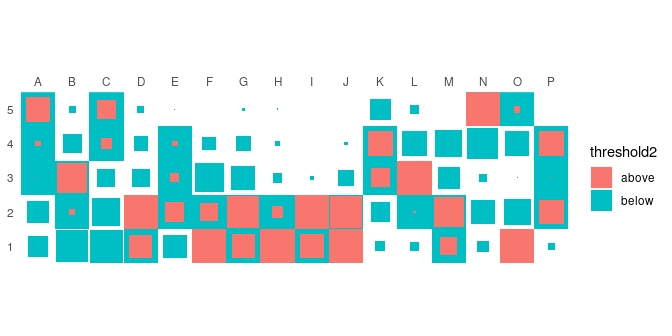
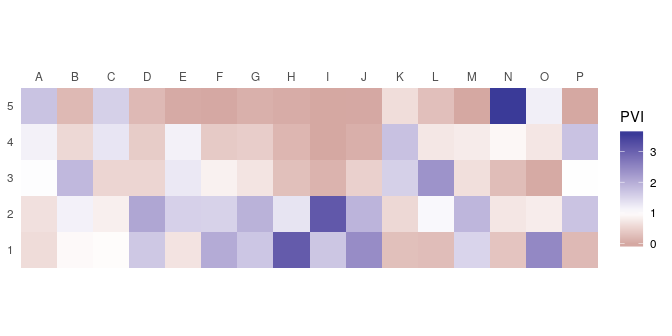
Update readme

diff --git a/README.md b/README.md
@@ -148,12 +148,12 @@ incidence <- IncidenceMatrix(data = sample(0:1, 400, TRUE, c(0.6, 0.4)),
                              nrow = 20)
 
 # Get seriation order on rows and columns
-# Reciprocal ranking method
-(indices <- seriate(incidence, method = "ranking", margin = c(1, 2)))
+# Correspondance analysis-based seriation
+(indices <- seriate(incidence, method = "correspondance", margin = c(1, 2)))
 #> Permutation order for matrix seriation: 
-#>    Row order: 2 3 1 8 20 16 13 4 18 7 9 17 5 6 12 11 10 15 19 14 
-#>    Column order: 2 7 5 11 19 17 4 16 6 10 8 9 3 20 12 14 13 1 18 15 
-#>    Method: ranking
+#>    Row order: 8 16 14 6 19 7 5 2 11 1 15 3 18 13 20 17 12 10 4 9 
+#>    Column order: 15 16 14 6 8 7 17 9 10 4 1 2 13 19 18 5 12 3 20 11 
+#>    Method: correspondance
 ```
 
 ``` r
@@ -190,7 +190,7 @@ plotSpot(count, threshold = mean)
 
 ![](man/figures/README-spot-1.png)
 
-Bertin of Ford diagramms can be plotted, with statistic threshold (B. Desachy's seriograph EPPM):
+Bertin of Ford (battleship curve) diagramms can be plotted, with statistic threshold (B. Desachy's seriograph EPPM). The positive difference from the column mean percentage (in french "écart positif au pourcentage moyen", EPPM) represents a deviation from the situation of statistical independence. EPPM is a usefull graphical tool to explore significance of relationship between rows and columns related to seriation.
 
 ``` r
 plotBar(count, EPPM = TRUE)
@@ -198,10 +198,11 @@ plotBar(count, EPPM = TRUE)
 
 ![](man/figures/README-seriograph-1.png)
 
-Matrix plot can produce a visual *χ*<sup>2</sup> (B. Desachy's matrigraph PVI):
+Matrix plot is displayed as a heatmap. The PVI matrix (i.e. B. Desachy's matrigraph PVI) allows to explore deviations from independence (an intuitive graphical approach to *χ*<sup>2</sup>),
 
 ``` r
-plotMatrix(count, PVI = TRUE)
+plotMatrix(count, PVI = TRUE) +
+  ggplot2::scale_fill_gradient2(midpoint = 1)
 ```
 
 ![](man/figures/README-matrigraph-1.png)
